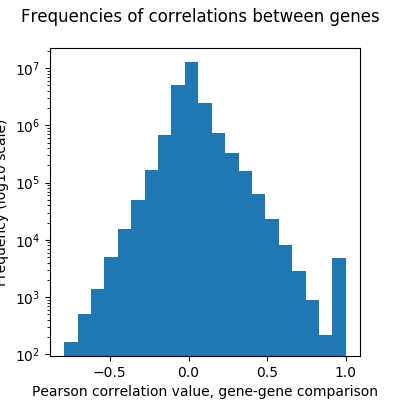
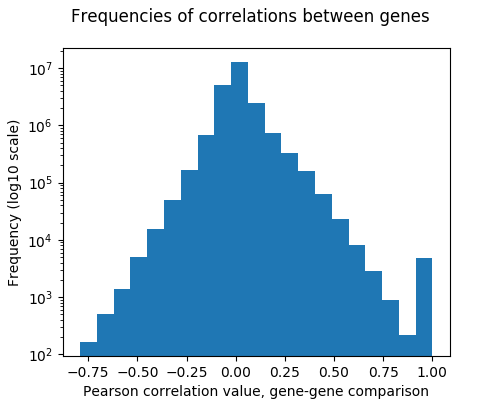
transfer

Changed region(s): [[0.06, 0.9, 0.96, 1.0], [0.0, 0.12, 0.15, 0.9], [0.03, 0.0, 0.96, 0.06]]

diff --git a/figures.py b/figures.py
@@ -133,7 +133,7 @@ clustered_header = np.load('clustered_header.npy')
 # plt.tight_layout(rect=[0, 0.03, 1, 0.95])
 # plt.savefig("figures/gene_scatter_gigaplex.png",dpi=500)
 
-plt.figure("correlation_histogram",figsize=(4,4))
+plt.figure("correlation_histogram",figsize=(5,4))
 plt.suptitle("Frequencies of correlations between genes")
 correlations = np.corrcoef(counts.T)
 plt.subplot(111)
